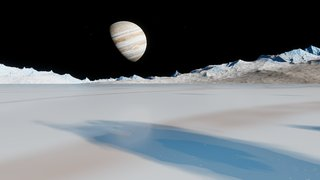
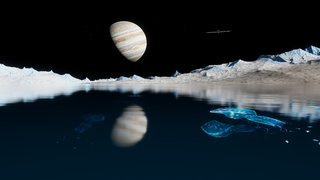
Europa: open on open water among the ice
Europa started Frozen, so its ocean showed only in the crust's thin
leads. It now opens on open water, Jupiter mirrored in it and the
lanterns glowing under it, with the icy hills round about; Frozen still
covers it with the crust. The thumbnail follows. The probe's wings now
lie along the level line across the eye's way to it, laid square to the
sun, which keeps them broadside wherever it is on its pass.

Claude-Session: https://claude.ai/code/session_012iNshux8RuHtUDWMRD2rEv

diff --git a/src/places.js b/src/places.js
@@ -57,13 +57,13 @@ export const PLACES = {
   // own still water over its blue-coated bed (since 2026).
   mall: { sky: 'mall', pool: false, reeds: false, shoreKind: 'mall', mall: true, water: 'mall', waterCard: { image: 'assets/sky/thumbs/mall.jpg', name: 'Pool water', note: 'Still over its blue bed: a mirror for the monuments' } },
   // Europa: the lake's shore and bed under Europa's sky, its beach frost (`shore`, src/pondFloor.js SHORE_LOOKS), its
-  // water the ocean under the ice (WATER_CLARITIES.europa), frozen at first (`defaultWater`) and seen from water level,
-  // Jupiter low ahead over the ice and in it (`defaultView`), its ice an old crust (`iceCrust`): frost nearly all over,
+  // water the ocean under the ice (WATER_CLARITIES.europa), open at first, a body of water among the ice (Frozen covers it
+  // with the crust), seen from water level, Jupiter low ahead over the ice and mirrored in the water (`defaultView`); its ice an old crust (`iceCrust`): frost nearly all over,
   // as bright as Europa's (albedo about 0.65), stained reddish-brown along bands as its lineae are, Jupiter mirrored only
   // in the bare leads between. No fish but glowing ice lanterns (src/fish.js); no birds, weather or wind over an airless
   // moon (its sky's `airless`, placeAirless), but a vent's plume and a probe crossing its sky (src/europaScenery.js). Its own gravity
   // (`gravity`, m/s²: src/gravity.js), a seventh of Earth's: what is thrown climbs higher and falls slower.
-  europa: { sky: 'europa', gravity: 1.315, pool: false, reeds: false, water: 'europa', defaultWater: 'frozen', defaultView: 'level', iceCrust: [0.72, 0.52, 0.40, 1], waterCard: { image: 'assets/sky/thumbs/europa.jpg', name: 'Europa’s ocean', note: 'Salt water kilometres deep: black under the ice' } },
+  europa: { sky: 'europa', gravity: 1.315, pool: false, reeds: false, water: 'europa', defaultView: 'level', iceCrust: [0.72, 0.52, 0.40, 1], waterCard: { image: 'assets/sky/thumbs/europa.jpg', name: 'Europa’s ocean', note: 'Salt water kilometres deep: black under the ice' } },
 };
 /** Whether a place has no air (its sky's `airless`: Europa): clear and calm there, whatever the Weather and Wind settings say. */
 export const placeAirless = (place) => skyAirless(PLACES[place]?.sky);

diff --git a/src/europaSceneryMeshes.js b/src/europaSceneryMeshes.js
@@ -8,9 +8,9 @@
 //     frequency antennas (17.6 m) along the wings' top edges and its short
 //     very-high-frequency ones under them, and the 8.5 m magnetometer boom.
 //     Its arrays face the sun (+z of its model turned to the sun), and about
-//     that line it is turned so its wings lie halfway between level and
-//     across the level view's way to it (src/europaScenery.js SCENERY_EYE:
-//     near broadside, not end on), then
+//     that line it is turned so its wings lie along the level line across
+//     the level view's way to it (src/europaScenery.js SCENERY_EYE), as near
+//     as facing the sun allows: near broadside and near level, then
 //     rolled by the pose's `roll`: their cells dark blue under
 //     glass with a hard glint where the sun's mirror image falls, their backs
 //     pale. Lit by the sun, and from below by the sunlit ice (no air: no
@@ -298,12 +298,11 @@ function makeView({ lighting, haze, mirrorLayer }) {
   function orient(mesh, roll) {
     toSun.copy(lighting.sunDirection).normalize();
     seen.set(mesh.position.x - SCENERY_EYE.x, mesh.position.y - SCENERY_EYE.y, mesh.position.z - SCENERY_EYE.z).normalize();
-    // Broadside to the eye, eased halfway to level (both across the sun's line, so their mean is too): as NASA's view has it.
-    across.crossVectors(toSun, seen).normalize();
-    upward.set(0, 1, 0).cross(toSun).normalize();
-    if (across.dot(upward) < 0) across.negate();
-    across.add(upward);
-    if (across.lengthSq() < 1e-6) across.set(1, 0, 0);
+    // Its wings along the level line across the eye's way to it, laid into the plane square to the sun (so its arrays
+    // still face it): as near broadside and as near level as facing the sun allows, as NASA's view has it.
+    across.set(0, 1, 0).cross(seen);
+    across.addScaledVector(toSun, -across.dot(toSun));
+    if (across.lengthSq() < 1e-6) across.set(0, 1, 0).cross(toSun);
     across.normalize();
     upward.crossVectors(toSun, across);
     basis.makeBasis(across, upward, toSun);

diff --git a/README.md b/README.md
@@ -1292,7 +1292,8 @@ The curated locations include:
   of its sun instead (`sunCap`, `radianceCap` in `src/sky.js`). The beach is
   frost cracked into plates (`SHORE_LOOKS.frost`), the water the ocean under
   the ice, a deep blue in the sun alone (`WATER_CLARITIES.europa`); it starts
-  Frozen and at the level view, so Jupiter stands over the ice and in it. Its
+  open, a body of water among the ice, at the level view, so Jupiter stands
+  over the ice and is mirrored in the water. Frozen, its
   ice is an old crust, not a lake's black ice (`iceCrust`, `uIceCrust` in
   `src/shaders/scene.js`): frosted nearly all over, stained reddish-brown along
   bands, blue where the frost is thin and in the bare leads between (where
